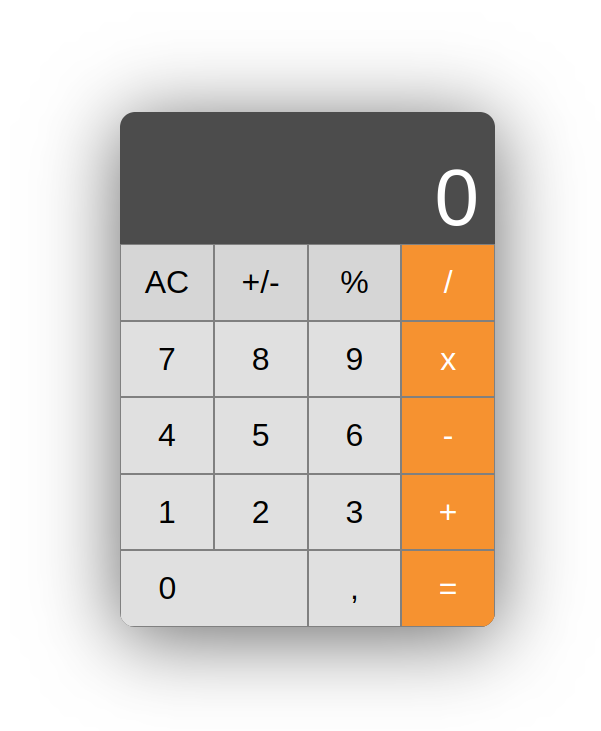
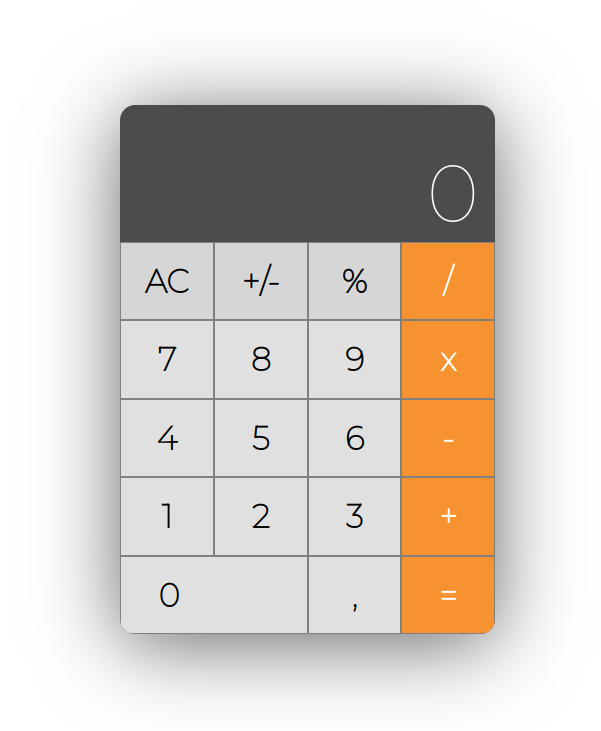
fix: font

diff --git a/src/assets/css/style.css b/src/assets/css/style.css
@@ -4,7 +4,7 @@ body {
     align-items: center;
     height: 100vh;
     margin: 0;
-    font-family: -apple-system, BlinkMacSystemFont, sans-serif;
+    font-family: 'Montserrat', sans-serif;
 }
 
 .calculator {
@@ -35,9 +35,11 @@ button {
     max-width: 75px;
     padding: 15px;
     font-size: 1.6em;
+    font-weight: 900;
     border: solid 1px gray;
     cursor: pointer;
     transition: background-color 0.3s ease;
+    font-family: 'Montserrat', sans-serif;
 }
 
 button.zero {
@@ -50,7 +52,7 @@ button.zero {
     background-color: #d6d6d6;
 }
 
-.light-grey-button{
+.light-grey-button {
     background-color: #e0e0e0;
 }
 

diff --git a/index.html b/index.html
@@ -7,6 +7,9 @@
   <meta name="viewport" content="width=device-width, initial-scale=1.0" />
   <link rel="stylesheet" href="/src/assets/css/style.css" />
   <title>Calculadora</title>
+  <link rel="preconnect" href="https://fonts.googleapis.com">
+  <link rel="preconnect" href="https://fonts.gstatic.com" crossorigin>
+  <link href="https://fonts.googleapis.com/css2?family=Montserrat:wght@100&display=swap" rel="stylesheet">
 </head>
 
 <body>
